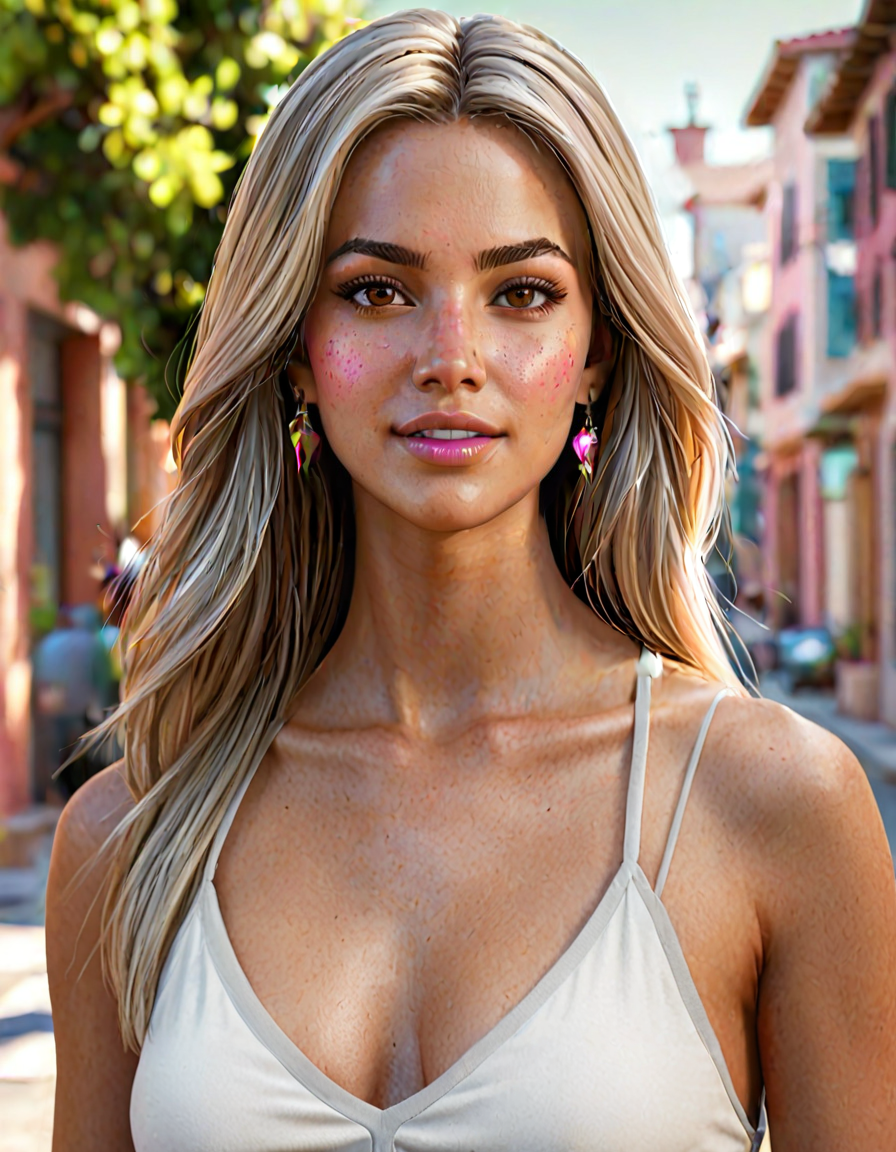
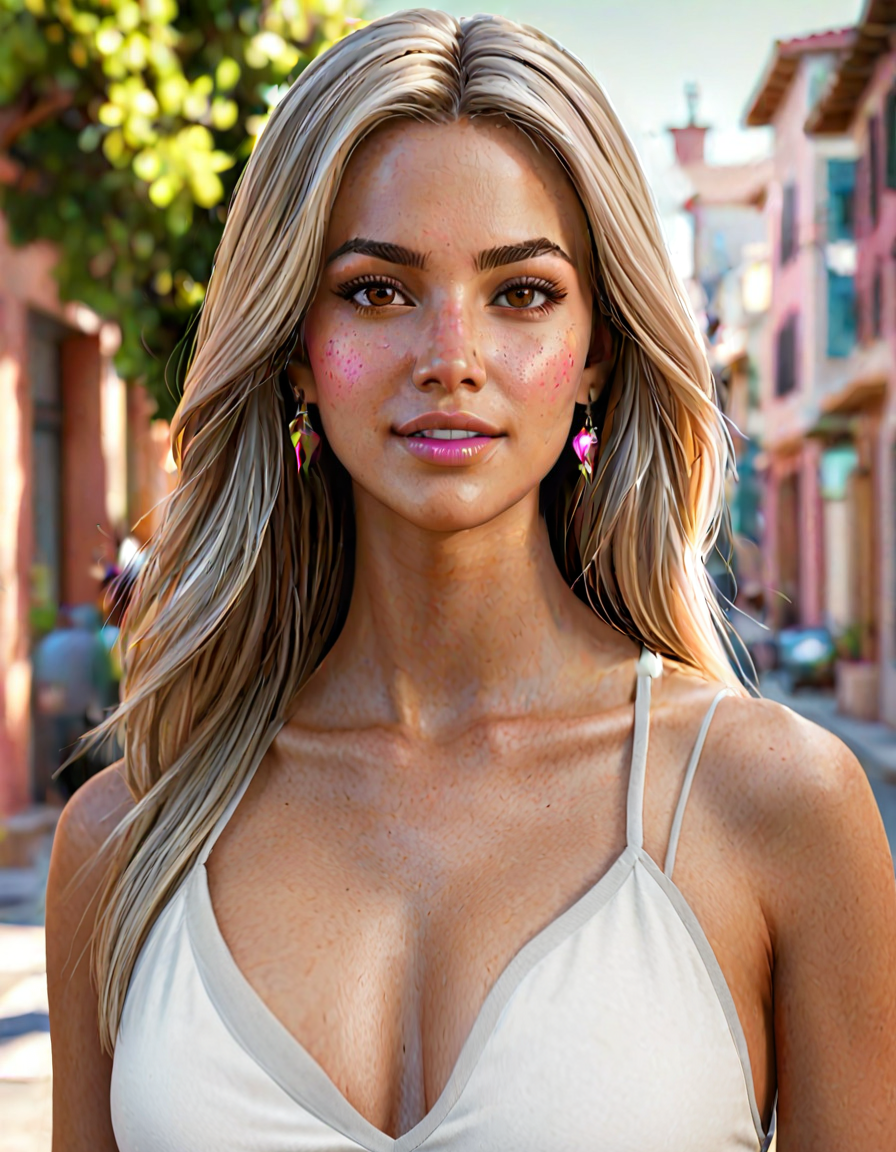
Sunny : buste plus volumineux (déformation locale, haut inchangé)
Claude-Session: https://claude.ai/code/session_01BD2ZNdNirrTphS8qn6eUXX

diff --git a/studio/avatar/gonfler.py b/studio/avatar/gonfler.py
@@ -1,0 +1,37 @@
+#!/usr/bin/env python3
+"""Augmente localement le volume d'une zone (effet loupe / liquify), sans rien régénérer.
+
+    python gonfler.py sunny.png sortie.png --centres 290,1020 570,1020 --rayon 230 --force 0.3
+"""
+import argparse
+
+import numpy as np
+from PIL import Image
+from scipy.ndimage import map_coordinates
+
+
+def gonfler(img: Image.Image, centres, rayon: float, force: float) -> Image.Image:
+    a = np.array(img).astype(float)
+    h, w = a.shape[:2]
+    yy, xx = np.mgrid[0:h, 0:w].astype(float)
+    sx, sy = xx.copy(), yy.copy()
+    for cx, cy in centres:
+        dx, dy = xx - cx, yy - cy
+        d = np.sqrt(dx ** 2 + dy ** 2) / rayon
+        k = np.where(d < 1, 1 - force * (1 - d ** 2) ** 2, 1.0)  # <1 au centre = agrandissement, 1 au bord
+        sx += dx * (k - 1)
+        sy += dy * (k - 1)
+    out = np.stack([map_coordinates(a[..., c], [sy, sx], order=3, mode="nearest") for c in range(3)], -1)
+    return Image.fromarray(out.clip(0, 255).astype("uint8"))
+
+
+if __name__ == "__main__":
+    ap = argparse.ArgumentParser()
+    ap.add_argument("entree"); ap.add_argument("sortie")
+    ap.add_argument("--centres", nargs="+", default=["290,1020", "570,1020"])
+    ap.add_argument("--rayon", type=float, default=230)
+    ap.add_argument("--force", type=float, default=0.3)
+    a = ap.parse_args()
+    c = [tuple(map(float, s.split(","))) for s in a.centres]
+    gonfler(Image.open(a.entree).convert("RGB"), c, a.rayon, a.force).save(a.sortie)
+    print(a.sortie)

diff --git a/05-production-sunny.md b/05-production-sunny.md
@@ -10,7 +10,8 @@
 > ```bash
 > cd studio/avatar
 > python retoucher.py vicky.png etape1.png --haut-blanc --graine 5           # haut blanc + cheveux blonds lisses
-> python retoucher.py etape1.png sunny.png --buste --force 0.65 --graine 4   # buste un peu plus important
+> python retoucher.py etape1.png etape2.png --buste --force 0.65 --graine 4  # nettoyage du haut
+> python gonfler.py etape2.png sunny.png --force 0.5 --rayon 260 --centres 285,1040 575,1040  # volume du buste
 > ```
 > Prérequis : `pip install torch diffusers transformers accelerate safetensors pillow rembg onnxruntime scipy`,
 > et l'accès réseau à huggingface.co (environnement « Gta6 »). `generer_sunny.py` crée de nouveaux
